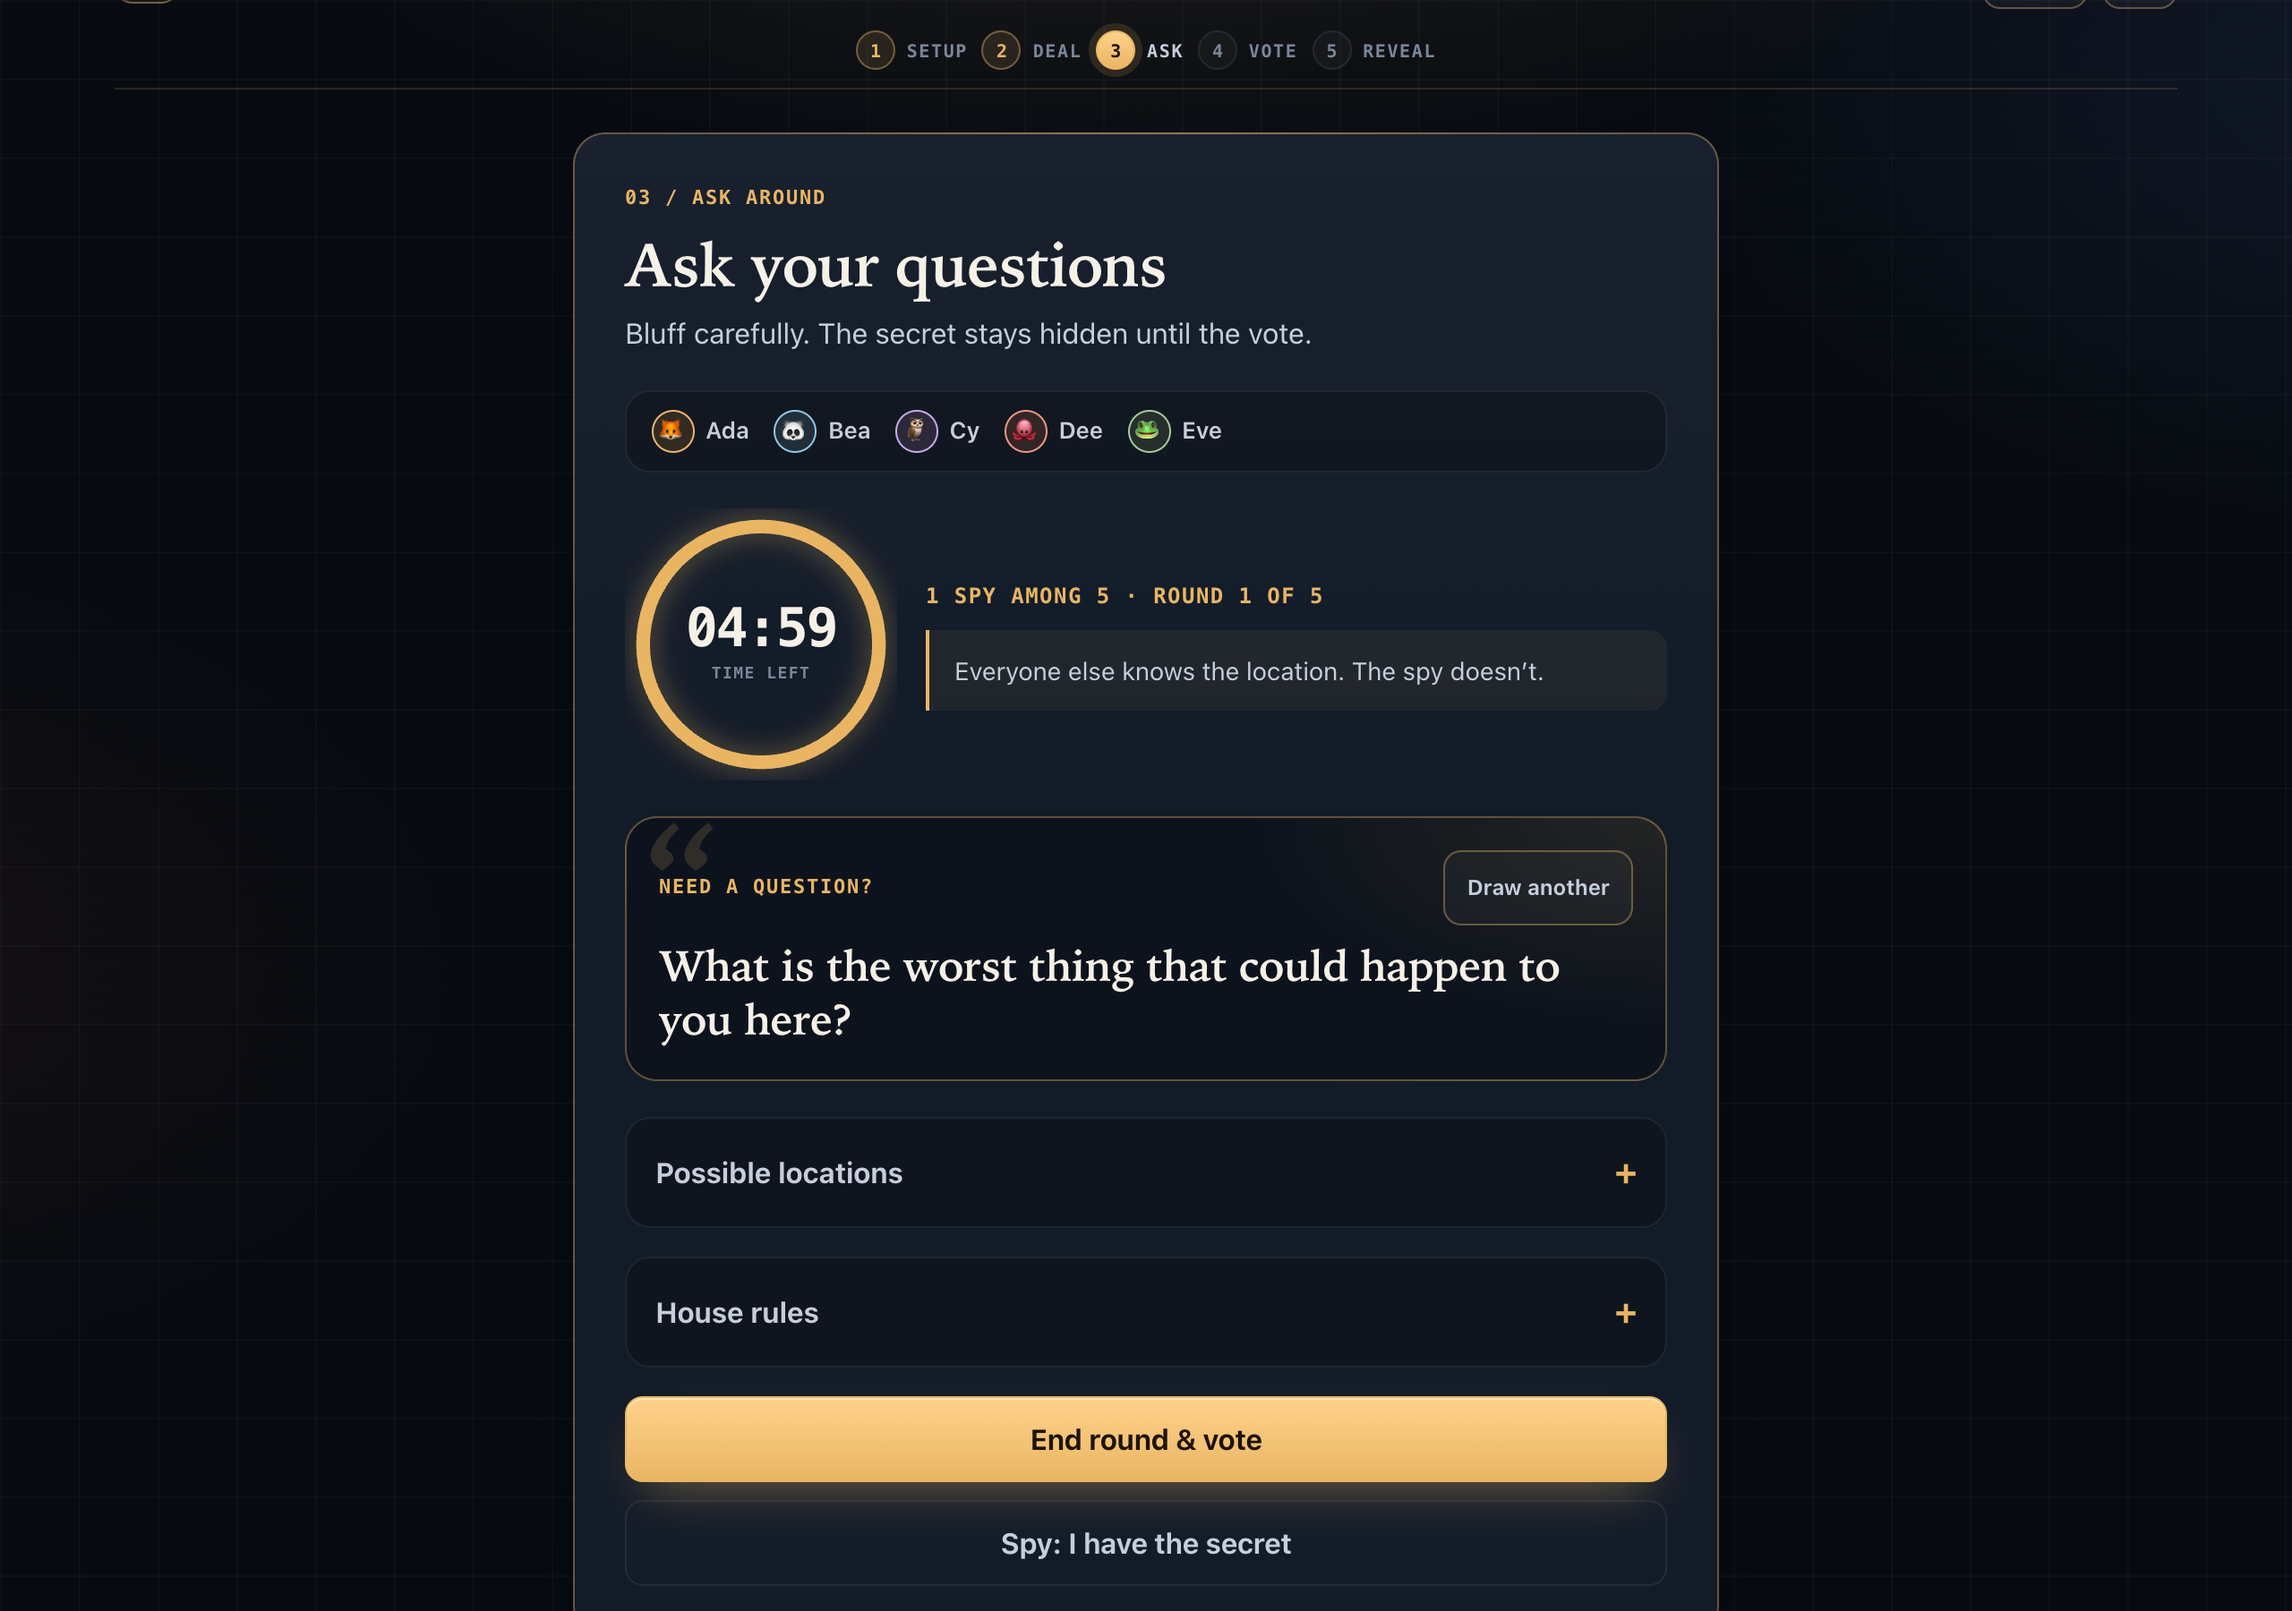
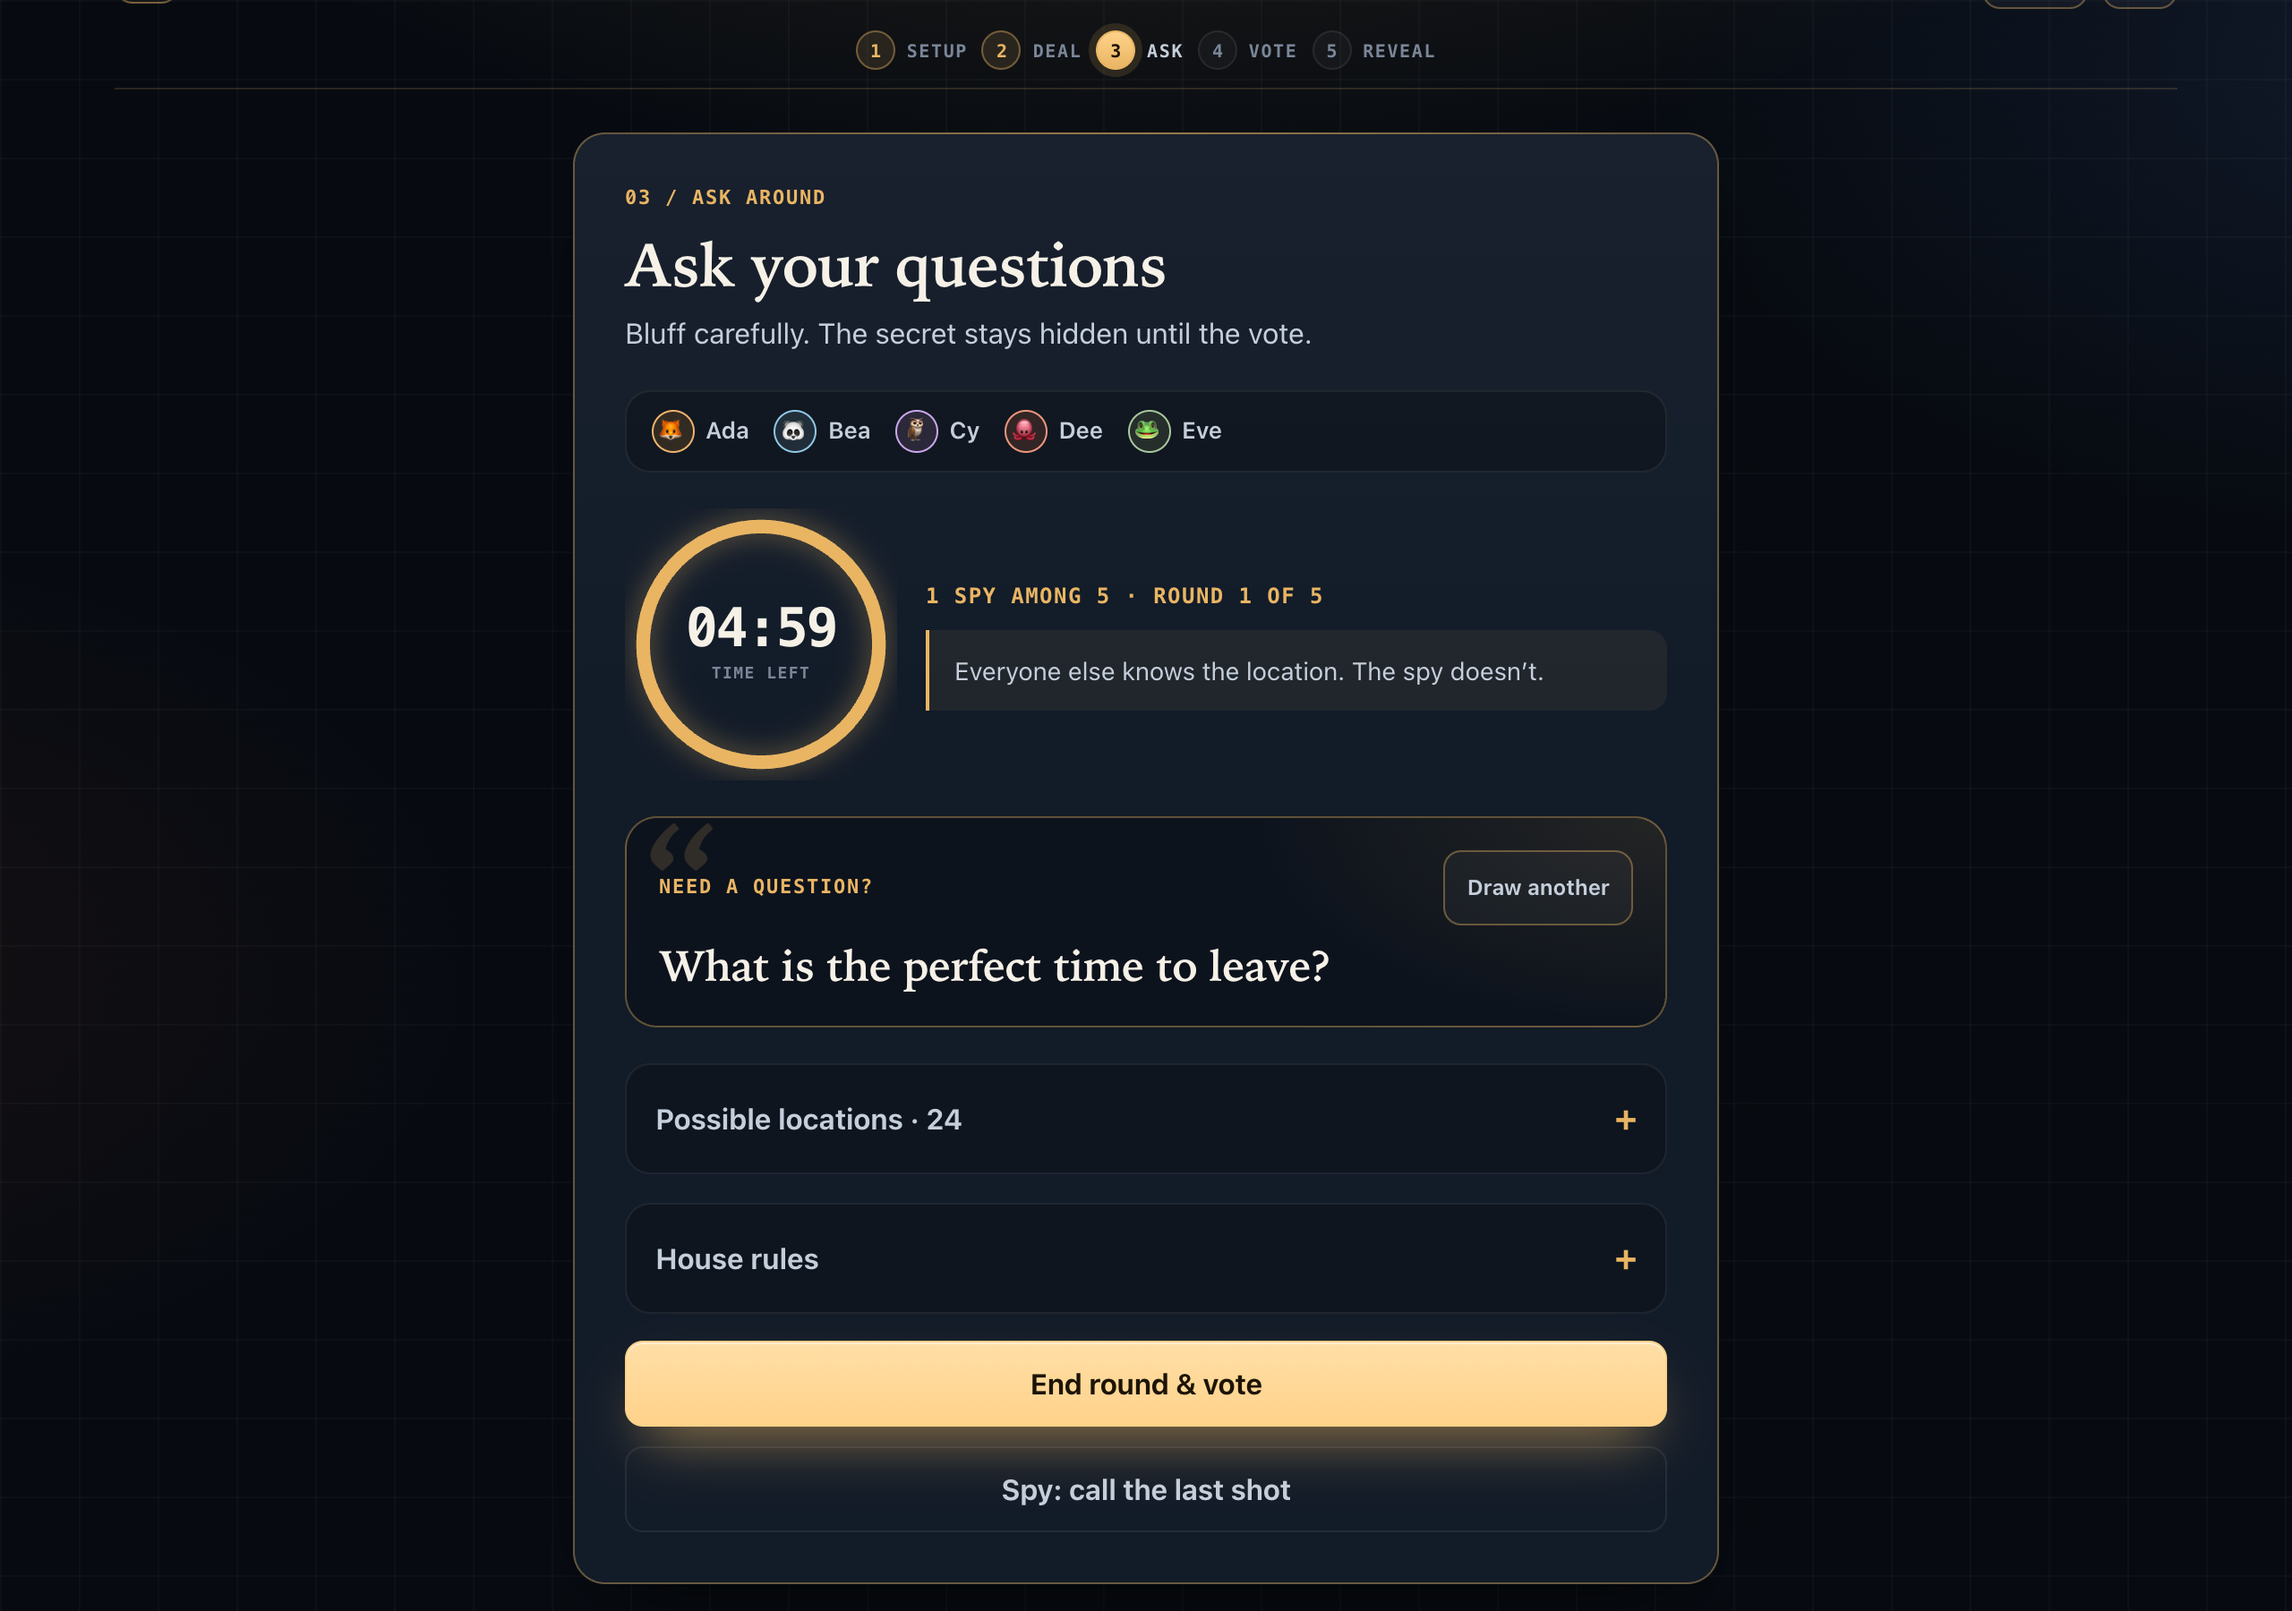
fix: stop a refused spy call from doing nothing
Only the spy can call for a guess, but the button offered the whole
roster and a non-spy picking themselves got a silent no-op: the 409
was swallowed into a state reload, so the panel closed and nothing
explained why.

Rule rejections now surface. The message from the server is shown in
the panel, the panel stays open so the spy can pick their own name,
and the announcement carries it for screen readers. The panel copy says
who is allowed to take the shot, and the button no longer claims the
spy "has the secret" — the spy is the one without it.

Also: the location board says how many places are on it.

diff --git a/game.js b/game.js
@@ -85,6 +85,7 @@
     showEndRoundDialog: false,
     showReplaySecretForm: false,
     showGuessCallPanel: false,
+    actionError: '',
     privacyLocked: false,
     revealPending: false,
     cardHidden: false,
@@ -186,12 +187,14 @@
       roundLocationHint: getElement('round-location-hint'),
       locationBoard: getElement('location-board'),
       locationBoardList: getElement('location-board-list'),
+      locationBoardLabel: getElement('location-board-label'),
       endRoundButton: getElement('end-round-button'),
       endRoundDialog: getElement('end-round-dialog'),
       confirmEndRoundButton: getElement('confirm-end-round-button'),
       cancelEndRoundButton: getElement('cancel-end-round-button'),
       callGuessButton: getElement('call-guess-button'),
       guessCallPanel: getElement('guess-call-panel'),
+      guessCallError: getElement('guess-call-error'),
       guessCallerList: getElement('guess-caller-list'),
       accuseView: getElement('accuse-view'),
       suspectList: getElement('suspect-list'),
@@ -1170,6 +1173,15 @@
 
   function handleIntentError(error, gameId, generation, retryOperation, operationEpoch, operationToken) {
     if (!releaseMutation(generation, operationToken)) return;
+    if (error && error.status === 409 && error.code === 'INVALID_STATE') {
+      // The move was refused by the rules, not by the network: say so.
+      state.retryOperation = null;
+      state.actionError = error.message || 'That move is not allowed right now.';
+      if (currentPhase() === 'round') state.showGuessCallPanel = true;
+      setAnnouncement(state.actionError);
+      render();
+      return;
+    }
     if (error && (error.status === 409 || error.code === 'REVISION_CONFLICT')) {
       state.retryOperation = null;
       reloadAfterConflict(gameId, generation);
@@ -1248,6 +1260,7 @@
       state.guessCategory = '';
     }
     if (snapshot.phase !== 'accuse') state.pendingAccusationPlayerId = null;
+    if (snapshot.phase !== 'round') state.actionError = '';
     if (snapshot.phase !== 'spy-guess') state.pendingGuessLocation = null;
     if (snapshot.phase !== 'round') state.showGuessCallPanel = false;
     if (snapshot.phase !== 'result') {
@@ -1842,6 +1855,7 @@
       render();
       focusElement(refs.confirmAccusationButton);
     } else if (action === 'call-guess' && currentPhase() === 'round') {
+      state.actionError = '';
       state.showGuessCallPanel = false;
       sendGameAction({ type: 'call-guess', playerId: value });
     } else if (action === 'guess' && currentPhase() === 'spy-guess') {
@@ -2015,8 +2029,9 @@
   function toggleGuessCallPanel() {
     if (state.mutationBusy || currentPhase() !== 'round') return;
     state.showGuessCallPanel = !state.showGuessCallPanel;
+    if (state.showGuessCallPanel) state.actionError = '';
     setAnnouncement(state.showGuessCallPanel
-      ? 'Pass the phone to the player calling for a guess.'
+      ? 'Guess call open. Only the spy can take this shot.'
       : 'Guess call closed.');
     render();
     if (state.showGuessCallPanel) focusElement(getFirstChoice(refs.guessCallerList));

diff --git a/index.html b/index.html
@@ -12,7 +12,7 @@
     <meta property="og:description" content="Pass the phone, bluff your way through the questions, and find the spies.">
     <meta name="twitter:card" content="summary">
     <title>Spy in the Room — Pass the phone</title>
-    <link rel="stylesheet" href="styles.css?v=20">
+    <link rel="stylesheet" href="styles.css?v=21">
   </head>
   <body>
     <a class="skip-link" href="#main-content">Skip to game</a>
@@ -297,7 +297,7 @@
             </div>
 
             <details id="location-board" class="question-protocol location-board" hidden>
-              <summary>Possible locations</summary>
+              <summary><span id="location-board-label">Possible locations</span></summary>
               <ul id="location-board-list" class="location-board-grid" aria-label="Possible locations"></ul>
             </details>
 
@@ -316,8 +316,9 @@
 
             <div id="guess-call-panel" class="inline-panel" aria-labelledby="guess-call-title" hidden>
               <p class="section-kicker">Private call</p>
-              <h3 id="guess-call-title">Who wants to guess?</h3>
-              <p>Pass the phone to the player who wants to risk a guess. The round ends either way.</p>
+              <h3 id="guess-call-title">The spy takes the shot</h3>
+              <p>Only the spy can call this. The spy picks their own name — the round ends either way.</p>
+              <p id="guess-call-error" class="field-message field-message-error" role="alert" hidden></p>
               <ul id="guess-caller-list" class="choice-list" aria-label="Choose who wants to guess"></ul>
             </div>
           </section>
@@ -643,8 +644,8 @@
     <script src="game-logic.js?v=16"></script>
     <script src="prefs.js?v=15"></script>
     <script src="api-client.js?v=15"></script>
-    <script src="game-view.js?v=20"></script>
-    <script src="game.js?v=20"></script>
+    <script src="game-view.js?v=21"></script>
+    <script src="game.js?v=21"></script>
 
     <!-- Vercel Web Analytics: page views only; no game data or custom events. -->
     <script src="analytics-bootstrap.js?v=15"></script>

diff --git a/game-view.js b/game-view.js
@@ -288,6 +288,11 @@
         });
       }
     }
+    if (refs.locationBoardLabel) {
+      refs.locationBoardLabel.textContent = hasLocationBoard
+        ? 'Possible locations · ' + locationBoard.length
+        : 'Possible locations';
+    }
 
     clearList(refs.guessCallerList);
     players.forEach(function (player, index) {
@@ -299,7 +304,11 @@
     refs.guessCallPanel.hidden = !state.showGuessCallPanel;
     refs.callGuessButton.textContent = state.showGuessCallPanel
       ? 'Close guess call'
-      : 'Spy: I have the secret';
+      : 'Spy: call the last shot';
+    if (refs.guessCallError) {
+      refs.guessCallError.textContent = state.actionError || '';
+      refs.guessCallError.hidden = !state.actionError;
+    }
 
     if (refs.roundIntel) {
       var spyCount = ctx.logic.getSpyCount(players.length || 4);

diff --git a/service-worker.js b/service-worker.js
@@ -2,7 +2,7 @@
 
 // Bump CACHE_NAME when any precached shell asset changes.
 const CACHE_PREFIX = 'spy-in-the-room-shell-';
-const CACHE_NAME = 'spy-in-the-room-shell-v22';
+const CACHE_NAME = 'spy-in-the-room-shell-v23';
 const OFFLINE_URL = '/offline.html';
 const PRECACHE_URLS = Object.freeze([
   '/',

diff --git a/styles.css b/styles.css
@@ -832,6 +832,11 @@ fieldset {
   color: var(--text-soft);
 }
 
+/* Errors inside a panel have to outrank the panel's own paragraph colour. */
+.inline-panel > p.field-message-error {
+  color: var(--red);
+}
+
 .sticky-action {
   position: sticky;
   bottom: 0;
